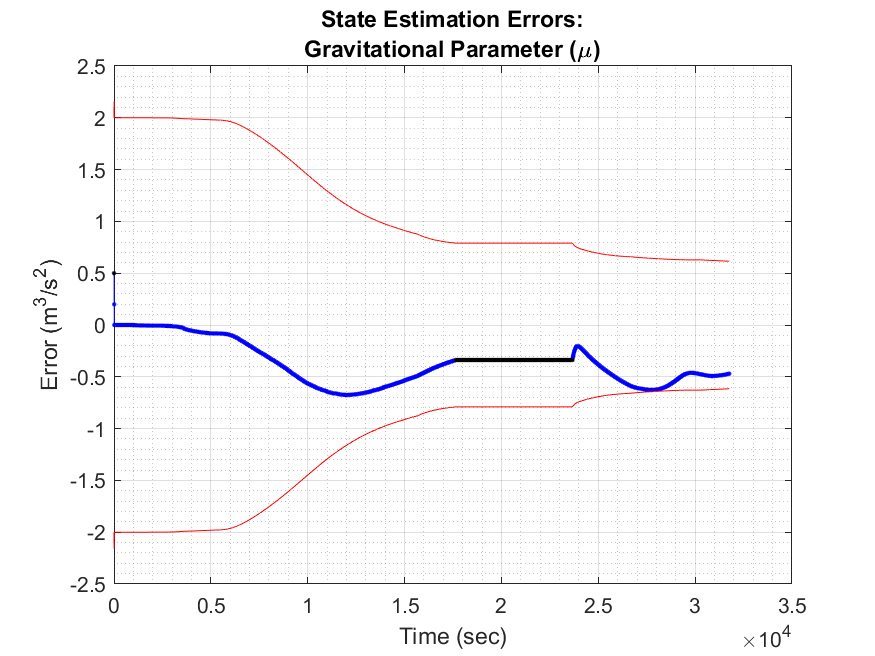
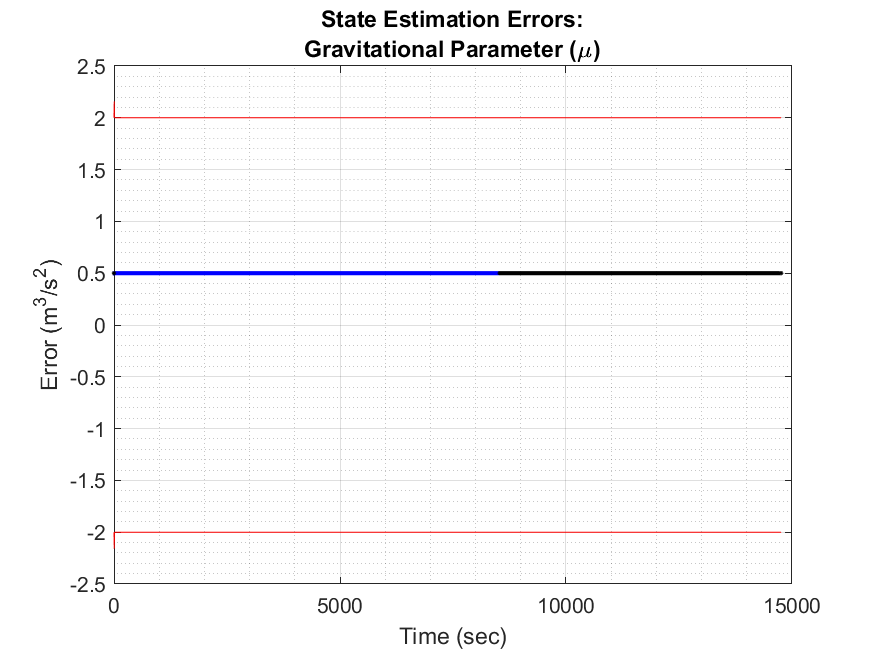
updated propagation model

diff --git a/Code/gsfSimulationScript.m b/Code/gsfSimulationScript.m
@@ -12,18 +12,26 @@ Rbody = 250;%6378e3;
 
 params.mu = 6.67430e-11*7.329e10;% m^3/s^2
 
+% imu errors
+wProc = 1/3*ones(3,1);
+mean1  = 1e-8*[1,1,1];
+mean2  = 2e-8*[1,1,1];
+mean3  = -1e-8*[1,1,1];
+sigma = diag(1e-10*[1;1;1]);
+params.imuBias = gmdistribution([mean1;mean2;mean3],sigma,wProc);
+
 % true initial conditions (3 mixands)
 a = 1.2*Rbody; ecc = 0; inc = 20*pi/180;w = 0; ra = 20*pi/180;f = 21*pi/180;
 [r0,v0] = orbEl2rv(a,ecc,inc,w,ra,f,params.mu);
-X0_true1 = [r0;v0;4.5];
+X0_true1 = [r0;v0;4.5;params.imuBias.mu(1,:)'];
 
 a = 1.2*Rbody; ecc = 0; inc = 20*pi/180;w = 0; ra = 20*pi/180;f = 20*pi/180;
 [r0,v0] = orbEl2rv(a,ecc,inc,w,ra,f,params.mu);
-X0_true2 = [r0;v0;5];
+X0_true2 = [r0;v0;5;params.imuBias.mu(2,:)'];
 
 a = 1.2*Rbody; ecc = 0; inc = 20*pi/180;w = 0; ra = 20*pi/180;f = 22*pi/180;
 [r0,v0] = orbEl2rv(a,ecc,inc,w,ra,f,params.mu);
-X0_true3 = [r0;v0;5.5];
+X0_true3 = [r0;v0;5.5;params.imuBias.mu(3,:)'];
 
 T = 2*pi*sqrt(a^3/params.mu);
 
@@ -38,19 +46,14 @@ azimuth = random('Uniform',0,pi,1,params.numLand);
 elevation = random('Uniform',-pi/2,pi/2,1,params.numLand);
 [x,y,z] = sph2cart(azimuth,elevation,Rbody);
 params.landmark_db = [x;y;z];
-params.P0 = diag([100;100;100;1;1;1;1]);
+params.P0 = zeros(params.L);
+params.P0(1:7,1:7) = diag([1000;1000;1000;1;1;1;1]);
+params.P0(8:10,8:10) = params.imuBias.Sigma;
 params.measNoise = [.1;.1;.1];% deg^2;
 
 % make gm prior
 wPrior = 1/3*ones(3,1);%[0.1;0.8;0.1];
 gmPrior = gmdistribution([X0_true1,X0_true2,X0_true3]',params.P0,wPrior);
-
-% make gm rpcess noise
-wProc = 1/3*ones(3,1);
-procNoise(:,:,1) = diag(1e-12*[10;10;10]);
-procNoise(:,:,2) = diag(1e-11*[10;10;10]);
-procNoise(:,:,3) = diag(1e-10*[10;10;10]);
-params.gmProc = gmdistribution(zeros(3,size(procNoise,3)),procNoise,wProc);
 
 % make gm meas noise
 wMeas = 1/3*ones(3,1);
@@ -97,7 +100,7 @@ wts = wPrior;
 for ii = 2:length(t)
     fprintf('t=% f',t(ii))
     %% GSUKF propagation step
-    [Xprior,Pprior] = gsukfPropStep(Xprior,Pprior,t(ii),t(ii-1),params);
+    [Xprior,Pprior] = gsukfPropStep(Xprior,Pprior,t(ii),t(ii-1),deltaV(:,ii),params);
     
     % pull out current measurement set from cell array
     losLand = losMeas{ii,1};
@@ -109,8 +112,8 @@ for ii = 2:length(t)
     
     %% check if any measurement exist
     if numObsLand ~= 0
-        muProp = cell(length(Xprior),length(params.gmMeas.mu));
-        Pprop  = cell(length(Pprior),length(params.gmMeas.mu));
+        muProp = repmat(Xprior,1,length(params.gmMeas.mu));
+        Pprop  = repmat(Pprior,1,length(params.gmMeas.mu));
         % updated weights
         wtsUpd = repmat(wts,1,length(params.gmMeas.mu));
         
@@ -125,7 +128,7 @@ for ii = 2:length(t)
                 for kk = 1:numObsLand
 
                     % UKF measurement step
-                    [yhatm,Pkyy,Pkxy] = gsukfMeasStep(muPrior_i,Pprior_i,params,landIdx(kk));
+                    [yhatm,Pkyy,Pkxy] = gsukfMeasStep(muProp{iPrior,iMeas},Pprop{iPrior,iMeas},params,landIdx(kk));
                     
                     measNoise = params.gmMeas.Sigma(:,:,iMeas);
                     R = Rz(measNoise(3)*pi/180)*Ry(measNoise(2)*pi/180)*Rx(measNoise(1)*pi/180);
@@ -140,10 +143,10 @@ for ii = 2:length(t)
                     K = Pkxy/Pkyy;
 
                     % state update
-                    muProp{iPrior,iMeas} = muPrior_i + K*(losLand(:,kk)-yhatm);
+                    muProp{iPrior,iMeas} = muProp{iPrior,iMeas} + K*(losLand(:,kk)-yhatm);
 
                     % covariance update
-                    P = Pprior_i - K*Pkyy*K';
+                    P = Pprop{iPrior,iMeas} - K*Pkyy*K';
                     Pprop{iPrior,iMeas} = (P + P')/2;
 
                     % update weights

diff --git a/Code/ukfSimulationScript.m b/Code/ukfSimulationScript.m
@@ -11,13 +11,16 @@ Rbody = 250;%6378e3;
 
 params.mu = 6.67430e-11*7.329e10;% m^3/s^2
 
+% imu params
+params.imuBias.mean = 1e-7*[1;1;1];
+params.imuBias.Sigma = 1e-8*diag([1;1;1]);
+
 % true initial conditions
-a = 2*Rbody; ecc = 0; inc = 20*pi/180;w = 0; ra = 20*pi/180;f = 30*pi/180;
+a = 1.2*Rbody; ecc = 0; inc = 20*pi/180;w = 0; ra = 20*pi/180;f = 30*pi/180;
 [r0,v0] = orbEl2rv(a,ecc,inc,w,ra,f,params.mu);
-X0_true = [r0;v0;params.mu];
+X0_true = [r0;v0;params.mu;params.imuBias.mean];
 
 T = 2*pi*sqrt(a^3/params.mu);
-z
 params.L  = length(X0_true);
 params.q  = 3;
 params.r  = 3;
@@ -29,8 +32,9 @@ azimuth = random('Uniform',0,pi,1,params.numLand);
 elevation = random('Uniform',-pi/2,pi/2,1,params.numLand);
 [x,y,z] = sph2cart(azimuth,elevation,Rbody);
 params.landmark_db = [x;y;z];
-params.P0 = diag([100;100;100;1;1;1;1]);
-params.procNoise = 1e-12*[10;10;10];% m^2/s^4
+params.P0 = zeros(params.L);
+params.P0(1:7,1:7) = diag([1000;1000;1000;1;1;1;1]);
+params.P0(8:10,8:10) = params.imuBias.Sigma;
 params.measNoise = 1/10*[1;1;1];% deg^2;
 
 % ukf parameters
@@ -48,7 +52,9 @@ params.dynamics = @(t,X) twoBodyEom(t,X,vProc);
 generateTrajAndMeas();
 %% filter
 % initialize filter
-X0 = mvnrnd(Xtruth(1,:),params.P0);
+Xtemp = mvnrnd(Xtruth(1,:),params.P0);
+% X0 = [Xtemp(1:7)';X0_true(8:end)];
+X0 = Xtemp;
 Xfilter = X0(:);
 Pfilter = params.P0;
 % initialize arrays
@@ -60,7 +66,7 @@ updateApplied = zeros(size(t));
 for ii = 2:length(t)
     fprintf('t=% f',t(ii))
     % UKF propagation step
-    [Xfilter,Pfilter] = ukfPropStep(Xfilter,Pfilter,t(ii),t(ii-1),params);
+    [Xfilter,Pfilter] = ukfPropStep(Xfilter,Pfilter,t(ii),t(ii-1),deltaV(:,ii),params);
     
     % pull out current measurement set from cell array
     losLand = losMeas{ii,1};
@@ -98,4 +104,7 @@ end
 %% plotting and post sim processing
 h = plotErrors(t,xEst-Xtruth,sig,updateApplied);
 saveas(h(1),'.\..\Results\posVelErrs_ukf','png')
-saveas(h(2),'.\..\Results\muErrs_ukf','png')
+if length(h)>1
+    saveas(h(2),'.\..\Results\muErrs_ukf','png')
+    saveas(h(3),'.\..\Results\imuAccelErrs_ukf','png')
+end

diff --git a/Code/Filter/gsukfPropStep.m b/Code/Filter/gsukfPropStep.m
@@ -4,11 +4,11 @@
 % last edited - KK, 4/11/2021
 
 % performs one GSUKF propagation step
-function [muProp,Pprop] = gsukfPropStep(muPrior,Pprior,tCurr,tPrev,params)
-muProp = cell(length(muPrior),length(params.gmProc.mu));
-Pprop  = cell(length(muPrior),length(params.gmProc.mu));
+function [muProp,Pprop] = gsukfPropStep(muPrior,Pprior,tCurr,tPrev,dV,params)
+muProp = cell(length(muPrior),length(params.imuBias.mu));
+Pprop  = cell(length(muPrior),length(params.imuBias.mu));
 dt = tCurr-tPrev;
-muProc = params.gmProc.mu;
+muBias = params.imuBias.mu;
 % prior loop
 for iPrior = 1:size(muProp,1)
     mu = muPrior{iPrior};
@@ -16,8 +16,8 @@ for iPrior = 1:size(muProp,1)
     
     % process noise loop
     parfor iProc = 1:size(muProp,2)
-        % select process noise
-        vProc = muProc(iProc,:)';
+        % compensate IMU error
+        dVCorr = dV - muBias(iProc,:)';
         
         %% propagation
         % get square root of the covariance matrix
@@ -32,9 +32,13 @@ for iPrior = 1:size(muProp,1)
         Pkm = zeros(params.L);
         for ii = 1:2*params.L+1
             
-            % for each sigma point, call ode45
+            % for each sigma point, propagate state using compensated IMU Data
+            r = norm(kai(1:3,ii));
+            rhat = kai(1:3,ii)/r;
+            g = -kai(7,ii)/r^2*rhat;
+            vProc = g - dVCorr/dt;
             [~,Y] = ode45(@(t,X) twoBodyEom(t,X,vProc),[tPrev,tCurr],kai(:,ii),params.options);
-            
+
             % assign final state to array
             kai(:,ii) = Y(end,:)';
             
@@ -60,7 +64,11 @@ for iPrior = 1:size(muProp,1)
             
         end
         % add process noise
-        Pkm = Pkm + diag([zeros(3,1);diag(params.gmProc.Sigma(:,:,iProc))*dt^2;0]);
+        Q = zeros(params.L);
+        Q(1:3,1:3) = (eye(3)+params.imuBias.Sigma)*dt;
+        Q(4:6,4:6) = (eye(3)+params.imuBias.Sigma);
+        Q(8:10,8:10) = (eye(3)+params.imuBias.Sigma);
+        Pkm = Pkm + Q;
         Pkm = (Pkm + Pkm')/2;
         
         % assign propagated state and covariance to outuput

diff --git a/Code/Filter/ukfPropStep.m b/Code/Filter/ukfPropStep.m
@@ -4,9 +4,15 @@
 % last edited - KK, 4/11/2021
 
 % performs one UKF propagation step
-function [xhatm,Pkm] = ukfPropStep(X,P,tCurr,tPrev,params)
+function [xhatm,Pkm] = ukfPropStep(X,P,tCurr,tPrev,dV,params)
 dt = tCurr-tPrev;
+%% IMU error compensation
+dVCorr = dV - X(8:10);
 %% propagation
+% % make augmented covariance matrix
+% Pkaug = zeros(params.L+length(params.imuBias.Sigma));
+% Pkaug(1:params.L,1:params.L) = P;
+% Pkaug(params.L+1:end,params.L+1:end) = params.imuBias.Sigma;
 % get square root of the covariance matrix
 Pksqrt = chol(P,'lower');
 
@@ -19,9 +25,11 @@ xhatm = zeros(params.L,1);
 Pkm = zeros(params.L);
 for ii = 1:2*params.L+1
     
-    % for each sigma point, call ode45
-    % NOTE: params.mu should be replaced by the estimated mu
-    vProc = zeros(3,1);
+    % for each sigma point, propagate state using compensated IMU Data
+    r = norm(kai(1:3,ii));
+    rhat = kai(1:3,ii)/r;
+    g = -kai(7,ii)/r^2*rhat;
+    vProc = g - dVCorr/dt;
     [~,Y] = ode45(@(t,X) twoBodyEom(t,X,vProc),[tPrev,tCurr],kai(:,ii),params.options);
     
     % assign final state to array
@@ -49,5 +57,10 @@ for ii = 1:2*params.L+1
     
 end
 % add process noise
-Pkm = Pkm + diag([zeros(3,1);diag(params.procNoise(:,:,1))*dt^2;0]); 
+Q = zeros(params.L);
+Q(1:3,1:3) = (eye(3)+params.imuBias.Sigma)*dt;
+Q(4:6,4:6) = (eye(3)+params.imuBias.Sigma);
+Q(8:10,8:10) = (eye(3)+params.imuBias.Sigma);
+
+Pkm = Pkm + Q;
 Pkm = (Pkm + Pkm')/2;

diff --git a/Code/Dynamics/generateTrajAndMeas.m b/Code/Dynamics/generateTrajAndMeas.m
@@ -4,10 +4,16 @@ t = 0:params.dt:T;
 losMeas = cell(length(t),2);
 Xtruth = zeros(length(t),params.L);
 Xtruth(1,:) = X0_true(:)';
+deltaVTrue = zeros(3,length(t));
+deltaV = zeros(3,length(t));
+X = zeros(size(Xtruth));
+X(1,:) = X0_true(:)'; 
+% generate random constant 
+bias = params.imuBias.mean;
 for ii = 2:length(t)
     
     %% trajectory
-    vProc = mvnrnd(zeros(size(params.procNoise)),diag(params.procNoise));vProc =vProc(:);
+    vProc = zeros(3,1);
     [~,Y] = ode45(@(t,X) twoBodyEom(t,X,vProc),[t(ii-1),t(ii)],Xtruth(ii-1,:),params.options);
     Xtruth(ii,:) = Y(end,:);
     
@@ -33,4 +39,23 @@ for ii = 2:length(t)
     
     % assign index of observed landmarks
     losMeas{ii,2} = visIdx;
+    %% IMU data
+    
+    % truth accel data
+    deltaVTrue(:,ii) = Xtruth(ii,4:6)-Xtruth(ii-1,4:6);% actual difference in velocity
+    
+%     % add error
+    biasDrift = mvnrnd(zeros(size(params.imuBias.mean)),params.imuBias.Sigma);biasDrift = biasDrift(:);
+    
+    bias = bias + params.dt*biasDrift;
+    
+    Xtruth(ii,8:10) = bias;
+    
+    deltaV(:,ii) = deltaVTrue(:,ii) + bias;
+        
+    vel = X(ii-1,4:6) + deltaV(:,ii)';
+    pos = X(ii-1,1:3) + vel*params.dt + 0.5*deltaV(:,ii)'*params.dt;
+    
+    X(ii,1:7) = [pos,vel,params.mu];
+    X(ii,8:10) = params.imuBias.mean;
 end

diff --git a/Code/Dynamics/generateTrajAndMeasGM.m b/Code/Dynamics/generateTrajAndMeasGM.m
@@ -4,10 +4,14 @@ t = 0:params.dt:T;
 losMeas = cell(length(t),2);
 Xtruth = zeros(length(t),params.L);
 Xtruth(1,:) = X0_true(:)';
+deltaVTrue = zeros(3,length(t));
+deltaV = zeros(3,length(t));
+X = zeros(size(Xtruth));
+X(1,:) = X0_true(:)'; 
 for ii = 2:length(t)
     
     %% trajectory
-    vProc = random(params.gmProc);vProc = vProc(:);
+    vProc = zeros(3,1);
     [~,Y] = ode45(@(t,X) twoBodyEom(t,X,vProc),[t(ii-1),t(ii)],Xtruth(ii-1,:),params.options);
     Xtruth(ii,:) = Y(end,:);
     
@@ -35,4 +39,21 @@ for ii = 2:length(t)
     % assign index of observed landmarks
     losMeas{ii,2} = visIdx;
     
+    
+    %% IMU data
+    
+    % truth accel data
+    deltaVTrue(:,ii) = Xtruth(ii,4:6)-Xtruth(ii-1,4:6);% actual difference in velocity
+    
+%     % add error
+    biasErr = random(params.imuBias);biasErr = biasErr(:);
+
+    deltaV(:,ii) = deltaVTrue(:,ii) + biasErr;
+        
+    vel = X(ii-1,4:6) + deltaV(:,ii)';
+    pos = X(ii-1,1:3) + vel*params.dt + 0.5*deltaV(:,ii)'*params.dt;
+    
+    
+    X(ii,1:7) = [pos,vel,params.mu];
+    X(ii,8:10) = sum(params.imuBias.mu.*wProc)';
 end

diff --git a/Code/Utilities/plotErrors.m b/Code/Utilities/plotErrors.m
@@ -32,8 +32,8 @@ xlabel(ax(6),'Time (sec)')
 linkaxes(ax(1:3))
 linkaxes(ax(4:6))
 
-% plot mu errors
 if size(stateErr,2)>6
+    % plot mu errors
     h(2) = figure;
     plot(t,stateErr(:,7),'b.-')
     hold on
@@ -43,4 +43,16 @@ if size(stateErr,2)>6
     xlabel('Time (sec)')
     ylabel('Error (m^3/s^2)')
     title({'State Estimation Errors:','Gravitational Parameter (\mu)'})
+    
+    % imu errors
+    h(3) = figure;
+    plot(t,stateErr(:,8:10),'b.-')
+    hold on
+    plot(t(~updateApplied),stateErr(~updateApplied,8:10),'k.')
+    plot(t,2*[-sig(:,8:10),sig(:,8:10)],'r')
+    grid on, grid minor
+    xlabel('Time (sec)')
+    ylabel('Error (m/s)')
+    title({'State Estimation Errors:','IMU Accel Bias'})
+    
 end

diff --git a/Code/Dynamics/twoBodyEom.m b/Code/Dynamics/twoBodyEom.m
@@ -2,7 +2,7 @@ function dX = twoBodyEom(t,X,vProc)
 %% Local variables
 r = X(1:3);
 rMag = norm(r);
-mu = X(7);%6.67430e-11*7.329e10;
+mu = X(7);
 
 %% Derivatives
 dX      = zeros(size(X));
